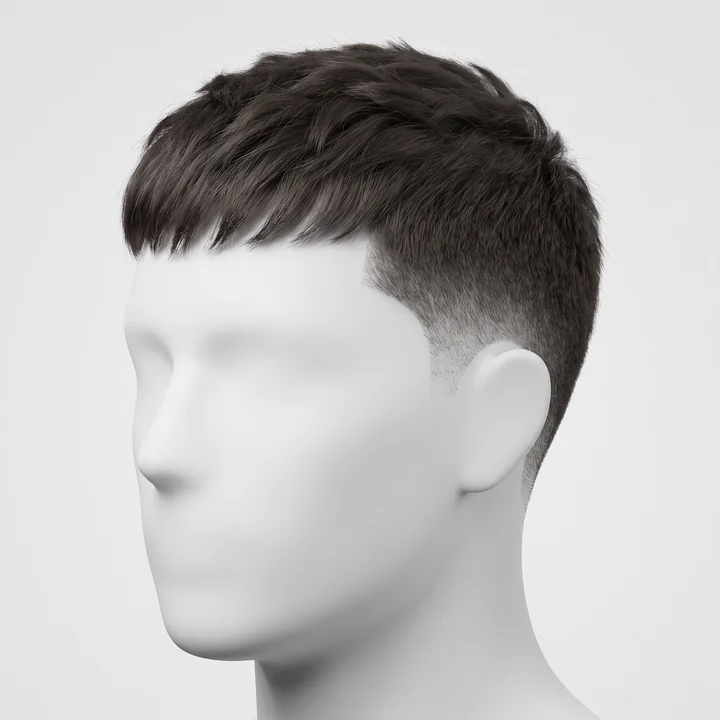
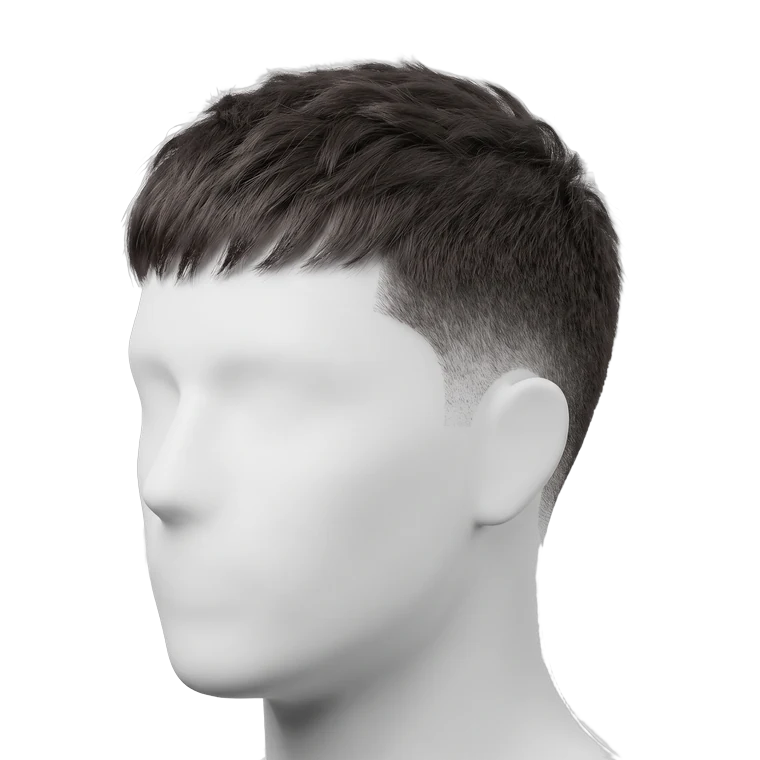
Cut the heads out, and let them stand on the card
The first pass shipped the renders with their studio background intact
and cropped a square image into a 4:3 box. That put a grey seam across
every cream card and sliced the top off every head - the picture and the
frame fighting each other. The renders are cutouts now, so there is no
background to seam and nothing to crop away: the bust is bottom-aligned
and stands on the card's own paper.

The hold figure moved behind the head. It used to sit over the render in
the top corner and read as a watermark nobody deleted; occluded by the
bust it reads as a ground the subject stands in front of, which is the
only reason to set a number that large.

The accent behind the head is 13%, not 26%. The first attempt turned
every card into a pastel field, which is exactly the look the hair-type
tiles were rebuilt to escape.

Also: a better slick back, because the taper had a hard line where it
wanted a blend; a new textured crop, because the mannequin had rendered
eyes and every other head in the set is blank; and the landing strip now
shows the same renders instead of a 36px glyph of a head that did not
resemble the cut it stood for.

Removes the Andre Walker aside from the hair types index. It was three
paragraphs of taxonomy criticism on a page whose job is to get a man to
a jar, and it made no claim about a product, so nothing is lost by
cutting it.

diff --git a/app/_views/hair-types-index.js b/app/_views/hair-types-index.js
@@ -135,36 +135,6 @@ export default async function HairTypesIndexView({ lang }) {
               : 'The format matters as much as the formula. Gel has the highest hold and a wet finish: it holds a defined shape, but it dries hard and there is no restyling afterwards. Wax has medium-high hold and a natural finish: texture without the glued-down look. That is why one product suits one man and ruins the next — it is not a matter of taste.'}
           </p>
 
-          <aside className="ht-honest">
-            <h3>{ar ? 'وحاجة لازم نقولها بصراحة' : 'And one honest caveat'}</h3>
-            <p>
-              {ar ? (
-                <>
-                  الجدول المشهور لأنواع الشعر — نظام أندريه ووكر، من{' '}
-                  <span dir="ltr">1A</span> لحد <span dir="ltr">4C</span> — بيوصف شكل الكيرلة وبس.
-                  مش بيقول أي حاجة عن مسامية الشعرة ولا كثافتها ولا سمكها، وهي دي الحاجات اللي
-                  بتحدد فعلاً وزن المنتج اللي ينفع. والجدول نفسه مش متسق: بعض الدرجات بتوصف سُمك
-                  الشعرة وبعضها بيوصف ضيق الكيرلة. وفيه بحث لـ د. تينا لاسيسي بيقول إنه بيفصّل أوي
-                  في اختلافات بسيطة في الشعر الأوروبي وبيكبّس النوعين 3 و4 مع بعض.
-                </>
-              ) : (
-                <>
-                  The well-known chart — the Andre Walker system, <span dir="ltr">1A</span> through{' '}
-                  <span dir="ltr">4C</span> — describes curl shape and nothing else. It says nothing
-                  about porosity, density or strand diameter, and those are the attributes that
-                  actually decide which product weight works. It is also internally inconsistent:
-                  some subtypes describe strand thickness, others describe curl tightness. Research
-                  by Dr Tina Lasisi finds it over-resolves the narrow variation in European hair
-                  while compressing types 3 and 4 together.
-                </>
-              )}
-            </p>
-            <p>
-              {ar
-                ? 'عشان كده إحنا بنسأل سؤال واحد بستة اختيارات، مش اتناشر: أربع أشكال كيرلة (مفرود، متموج، كيرلي، خشن) واتنين كثافة (خفيف، كثيف) — لأن الكثافة هي اللي بتحدد وزن المنتج، وإنت تقدر تقول "شعري خفيف" بثقة أكتر بكتير ما تقدر تقول "أنا 2B". اعتبر ده اختصار عملي عشان تختار منتج تصفيف، مش تشخيص لشعرك.'
-                : 'So we ask one six-way question instead of a twelve-way one: four curl families (straight, wavy, curly, coily) and two density states (fine, thick) — because density is what decides product weight, and a customer can say "my hair is thin" far more reliably than "I am a 2B". Treat it as a practical shortcut for picking a styling product, not as a diagnosis.'}
-            </p>
-          </aside>
         </section>
 
         {/* --------------------------------------------------- the six tiles */}

diff --git a/app/hair-styles/hairstyles.css b/app/hair-styles/hairstyles.css
@@ -102,28 +102,64 @@
 /*
  * The render at the top of a style card.
  *
- * Full card width and a fixed 4:3 box so six cards in a grid line their
- * headings up regardless of how tall each render sits in its frame. The 46px
- * masked glyph this sits above was too small to tell one cut from another,
- * which is the single job a style tile has.
+ * The renders are cut out, so there is no photographic background to butt
+ * against the card's own - the head simply stands on the card. An earlier pass
+ * kept the studio grey and cropped a square render into a 4:3 box, which put a
+ * visible seam across every card and sliced the top off every head. Both of
+ * those were the picture fighting the frame; a cutout removes the fight.
+ *
+ * The bust is bottom-aligned and bleeds off the lower edge of its own box into
+ * the card, so the crop reads as deliberate rather than as a photograph that
+ * ran out. The accent sits behind it as a soft ground the head stands on.
  */
 .hs-shot {
+  position: relative;
   margin: calc(-1 * var(--pad)) calc(-1 * var(--pad)) 0;
-  aspect-ratio: 4 / 3;
+  padding-top: 14px;
+  aspect-ratio: 5 / 4;
   overflow: hidden;
-  border-bottom: 1.5px solid var(--ink);
+  display: flex;
+  align-items: flex-end;
+  justify-content: center;
+  /* Restrained on purpose. A 26% accent wash behind the head turned every card
+     into a pastel field, which is the exact look the hair-type tiles were
+     rebuilt to get away from. The accent is a shadow the head stands in now,
+     not a colour the card is painted; the ground stays paper. */
   background:
-    radial-gradient(ellipse 70% 80% at 50% 15%, color-mix(in srgb, var(--c) 20%, transparent), transparent 70%),
+    radial-gradient(ellipse 54% 46% at 50% 99%, color-mix(in srgb, var(--c) 13%, transparent), transparent 70%),
+    radial-gradient(ellipse 70% 60% at 50% 100%, color-mix(in srgb, var(--ink) 6%, transparent), transparent 72%),
     var(--paper);
 }
 .hs-shot img {
-  width: 100%; height: 100%;
-  object-fit: cover;
-  object-position: 50% 22%;
+  position: relative;
+  z-index: 1;
+  height: 100%;
+  width: auto;
+  max-width: 100%;
+  object-fit: contain;
+  object-position: 50% 100%;
   display: block;
-  transition: transform .35s ease;
+  transition: transform .4s cubic-bezier(.22,.61,.36,1);
 }
-.hs-card:hover .hs-shot img { transform: scale(1.04); }
+.hs-card:hover .hs-shot img { transform: translateY(-4px) scale(1.02); }
+
+/* The hold figure moves behind the head rather than sitting on top of it. It
+   used to overlap the render at the card's top corner and read as a watermark
+   somebody forgot to delete; occluded by the bust it reads as a ground the
+   subject stands in front of, which is the whole reason for setting it so large. */
+.hs-shot .hs-hold {
+  position: absolute;
+  z-index: 0;
+  top: 2px;
+  inset-inline-end: 14px;
+  line-height: .78;
+  font-family: var(--font-anton), var(--font-cairo), sans-serif;
+  font-size: clamp(78px, 17vw, 132px);
+  color: color-mix(in srgb, var(--c) 20%, transparent);
+  pointer-events: none;
+  user-select: none;
+}
+
 @media (prefers-reduced-motion: reduce) {
   .hs-shot img { transition: none; }
   .hs-card:hover .hs-shot img { transform: none; }

diff --git a/app/landing.css b/app/landing.css
@@ -511,11 +511,18 @@
   color:color-mix(in srgb,var(--ink) 13%,transparent);
   pointer-events:none;user-select:none}
 
-.s7home .ltile .lmark{display:block;width:36px;height:36px;margin-bottom:12px;
-  background-color:currentColor;opacity:.55;
-  -webkit-mask:var(--m) center/contain no-repeat;mask:var(--m) center/contain no-repeat;
-  transition:opacity .18s}
-.s7home a.ltile:hover .lmark{opacity:1}
+/* Was a 36px currentColor mask of a drawing. It is the render now, so it wants
+   room and its own colour rather than a tint - and a ground to stand on, since
+   the file is a cutout with no background of its own. */
+.s7home .ltile .lmark{display:block;width:100%;height:118px;margin-bottom:12px;
+  object-fit:contain;object-position:50% 100%;
+  background:radial-gradient(ellipse 52% 42% at 50% 100%,
+    color-mix(in srgb,var(--c) 13%,transparent),transparent 70%);
+  transition:transform .3s cubic-bezier(.22,.61,.36,1)}
+.s7home a.ltile:hover .lmark{transform:translateY(-3px) scale(1.03)}
+@media(prefers-reduced-motion:reduce){
+  .s7home .ltile .lmark{transition:none}
+  .s7home a.ltile:hover .lmark{transform:none}}
 
 .s7home .ltile .ltxt{position:relative;display:block;min-width:0;padding-inline-end:40px}
 .s7home .ltile b{display:block;font-size:15px;font-weight:900;line-height:1.3}
@@ -549,6 +556,6 @@
   .s7home .looks{padding:64px 0}
   .s7home .look-grid{grid-template-columns:1fr;gap:9px}
   .s7home a.ltile{padding:14px 15px}
-  .s7home .ltile .lmark{width:32px;height:32px;margin-bottom:10px}
+  .s7home .ltile .lmark{height:96px;margin-bottom:10px}
   .s7home .ltile .lnum{font-size:52px;top:-10px}
 }

diff --git a/app/_views/hair-styles-index.js b/app/_views/hair-styles-index.js
@@ -173,17 +173,15 @@ export default async function HairStylesIndexView({ lang }) {
               return (
                 <article className="hs-card" key={s.slug}
                   style={{ '--c': s.color, '--m': `url(/${s.icon})` }}>
-                  {/* dir="ltr": a bare digit is a Latin run and reorders inside
-                      an Arabic line without it. */}
-                  <span className="hs-hold" dir="ltr" aria-hidden="true">{s.hold}</span>
-
                   {/* The render, given room to be looked at. The 46px masked
                       drawing this replaces was too small to tell one cut from
-                      another - which is the single job a style tile has. The
-                      mask stays in the markup below for the small marks, where
-                      a tinted glyph still reads better than a photograph. */}
+                      another - which is the single job a style tile has.
+                      The hold figure lives inside this block so the head can
+                      stand in front of it; dir="ltr" because a bare digit is a
+                      Latin run and reorders inside an Arabic line without it. */}
                   <div className="hs-shot">
-                    <img src={`/${s.photo}`} alt="" loading="lazy" width="720" height="720" />
+                    <span className="hs-hold" dir="ltr" aria-hidden="true">{s.hold}</span>
+                    <img src={`/${s.photo}`} alt="" loading="lazy" width="760" height="760" />
                   </div>
 
                   <div className="hs-card-head">

diff --git a/app/hair-types/hairtypes.css b/app/hair-types/hairtypes.css
@@ -22,20 +22,8 @@
 .ht-why { margin-top: 30px; }
 .ht-why > p { color: var(--grey); font-weight: 600; max-width: 72ch; margin-bottom: 14px; }
 
-.ht-honest {
-  background: var(--paper-2);
-  border-inline-start: 4px solid var(--red-ui);
-  border-radius: 0 16px 16px 0;
-  padding: 22px 24px;
-  margin-top: 22px;
-  max-width: 76ch;
-}
 /* The rounded corners have to follow the text direction too. */
-[dir="rtl"] .ht-honest { border-radius: 16px 0 0 16px; }
-.ht-honest h3 { margin-bottom: 10px; }
-.ht-honest p { color: var(--grey); font-weight: 600; }
-.ht-honest p + p { margin-top: 12px; }
-
+[dir="rtl"] 
 /* --------------------------------------------------------- the six cards */
 
 .ht-grid { display: grid; grid-template-columns: repeat(2, 1fr); gap: 16px; }
@@ -301,8 +289,7 @@
   .ht { padding-bottom: 56px; }
   .ht section { margin-top: 34px; }
   .ht-card { padding: 18px; }
-  .ht-honest { padding: 18px; }
-  .ht-hero { flex-direction: column; align-items: flex-start; gap: 14px; }
+    .ht-hero { flex-direction: column; align-items: flex-start; gap: 14px; }
   .ht-medal-lg { width: 92px; height: 92px; }
   .ht-pick-main { flex-direction: column; align-items: flex-start; }
   .ht-pick-main img { width: 88px; height: 88px; }

diff --git a/app/_components/Landing.js b/app/_components/Landing.js
@@ -721,7 +721,12 @@ export default function Landing({ lang, products, hairTypes, shipping, freeOver 
                       the whole finder turns on, set in Anton and bleeding off
                       the corner the way the hair tiles carry the Walker code. */}
                   <span className="lnum" dir="ltr" aria-hidden="true">{s.hold}</span>
-                  <span className="lmark" aria-hidden="true" />
+                  {/* The render, not the line drawing. The 36px mask this
+                      replaces was a glyph of a head that did not resemble the
+                      cut it stood for, which on a strip whose whole job is
+                      "pick the look" is the one thing it could not afford. */}
+                  <img className="lmark" src={`/${s.photo}`} alt="" loading="lazy"
+                    width="760" height="760" />
                   <span className="ltxt">
                     <b>{c.name}</b>
                     <span className="llabel" dir={runDir(label)}>{label}</span>
